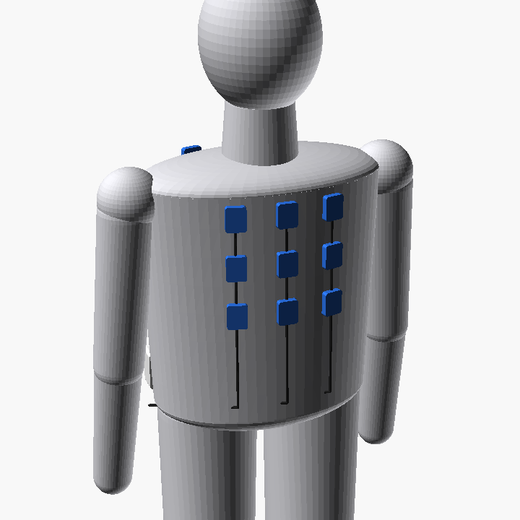
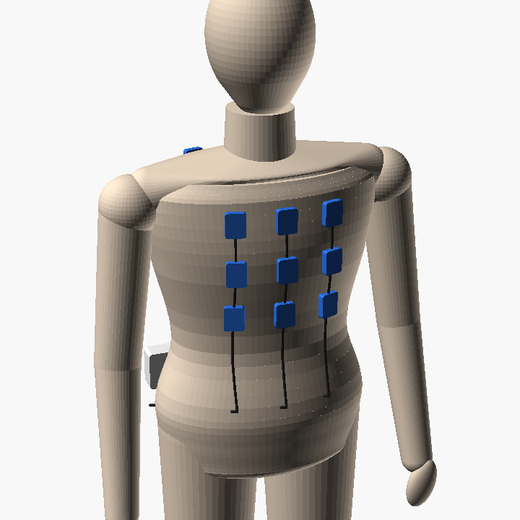
More anatomical mannequin (smooth torso profile, shoulders, jaw); square same-size header images

diff --git a/README.md b/README.md
@@ -6,9 +6,9 @@ ESP32-S3 plays the pattern on 18 vibration modules arranged as a 3 x 3 grid on t
 grid on the upper back.
 
 <p align="center">
-  <img src="media/mannequin-turntable.gif" width="46%" alt="Turntable render of a mannequin wearing the 18 vibration modules, 3 x 3 on the chest and 3 x 3 on the upper back, with the leads running to the controller box on the lower back">
-  <img src="media/photos/2026-09-24-vibration-array/IMG_7163.jpg" width="26%" alt="17 vibration modules in printed pods on sleeved leads">
-  <img src="media/photos/2026-09-24-vibration-array/IMG_7172.jpg" width="26%" alt="Controller box with push button and the module harness">
+  <img src="media/mannequin-turntable.gif" width="32%" alt="Turntable render of a mannequin wearing the 18 vibration modules, 3 x 3 on the chest and 3 x 3 on the upper back, with the leads running to the controller box on the lower back">
+  <img src="media/readme/harness.jpg" width="32%" alt="17 vibration modules in printed pods on sleeved leads">
+  <img src="media/readme/controller.jpg" width="32%" alt="Controller box with push button and the module harness">
 </p>
 <p align="center"><sub>Left: module placement on a mannequin (render from <code>hardware/mannequin/mannequin.scad</code>). Middle and right: the prototype harness, September 2026.</sub></p>
 
